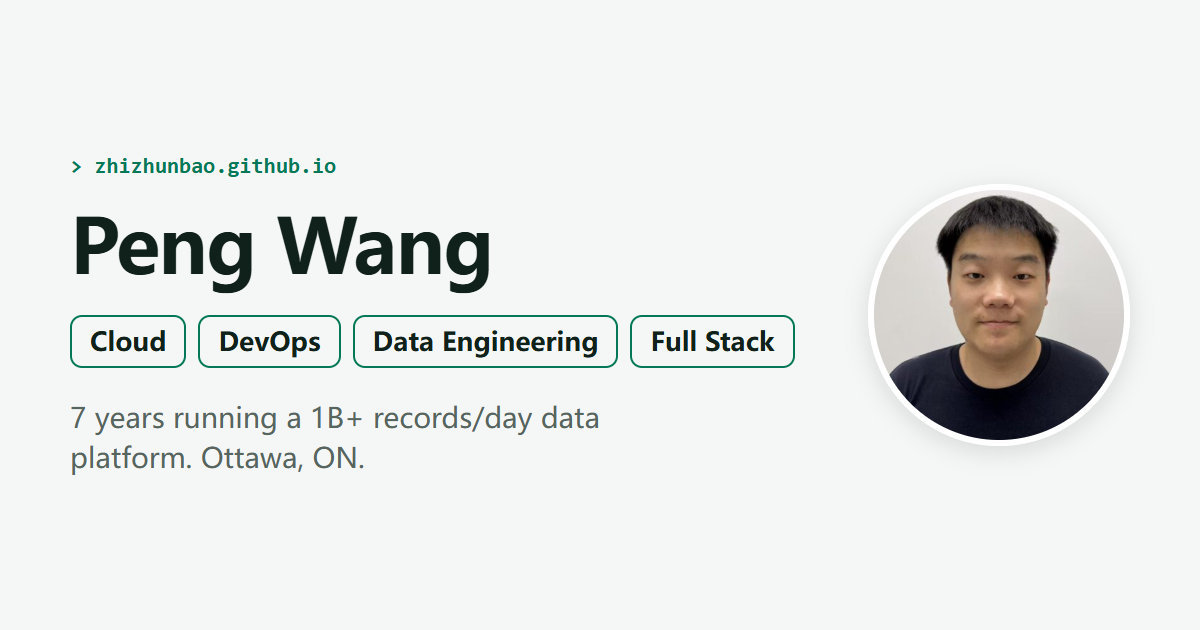
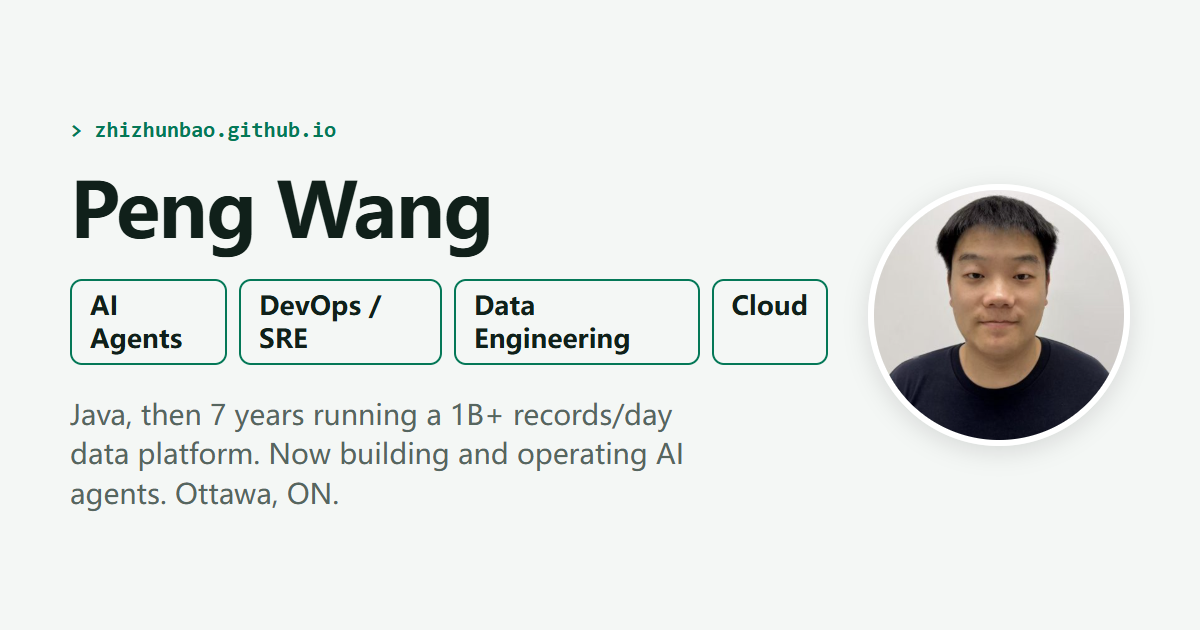
feat: 首页按主线重写 —— 过去 Java 开发 → 中期大数据架构、开发、运维 → 现在 AI Agent 开发运维;新增「How I build with AI agents」六条做法(都有仓库证据);offer2pr 详情页加 AI agent 功能与演变;技能加 AI agents 组;分享图与元数据同步

Changed region(s): [[0.0617, 0.181, 0.6783, 0.6032], [0.0617, 0.6333, 0.5858, 0.8143]]

diff --git a/src/data/profile.ts b/src/data/profile.ts
@@ -12,36 +12,70 @@ export const LINKS = {
 
 /** 首屏下方的数字。 */
 export const STATS = [
+	{ num: '2,600+', label: 'commits on offer2pr since Jun 2026, 1,500+ written with Claude' },
 	{ num: '1B+', label: 'smart-TV device records processed a day' },
-	{ num: '<1s', label: 'query time on ClickHouse + Spark' },
 	{ num: '−35%', label: 'infrastructure cost after the cloud migration' },
 	{ num: '24,000+', label: 'live postings on offer2pr.com' },
 ];
 
+/**
+ * 我怎么用 AI agent 做开发(Frank 10-16:「还有我自己的 AI agent 开发风格」)。
+ * 每条都有仓库里的证据(pnp-job-tracker 的 CLAUDE.md、.claude/skills、.githooks、eslint.config.mjs)。
+ */
+export const AGENT_WAYS = [
+	{
+		title: 'A constitution before code',
+		body: 'Every project starts with a CLAUDE.md the agent must follow: principles, naming, the decision ladder. offer2pr\'s runs to 259 lines and became my starter template.',
+	},
+	{
+		title: 'Guardrails, not trust',
+		body: '47 custom ESLint rules, a pre-commit type check and a pre-push gate (ruff, pyrefly, structure check, file whitelist) catch what an agent gets wrong. Skipping hooks is banned, and the lint baseline can only shrink.',
+	},
+	{
+		title: 'Names come from a catalogue',
+		body: 'Folder and domain names must be registered in each layer\'s README table; a lint rule reads the table and fails on anything unregistered, so agents can\'t invent structure.',
+	},
+	{
+		title: 'Skills for repeated work',
+		body: 'Five project skills on offer2pr, including a production audit loop that screenshots the live site on desktop and mobile, checks it, fixes and re-checks, plus a first-time-user walkthrough. A batch subagent handles bulk mechanical edits.',
+	},
+	{
+		title: 'Ground every number',
+		body: 'In product and in docs, numbers must come from a tool result, a database or an official source. My advisor agent was told it never computes or ranks; tools are the only source of facts.',
+	},
+	{
+		title: 'Simplify first',
+		body: 'The shortest form that carries the point. When a nine-tool advisor agent was more than the job needed, I replaced it with a two-step guide.',
+	},
+];
+
 /** 技能分组。 */
 export const SKILLS = [
+	{ group: 'AI agents', items: ['Claude Code', 'Agent skills & subagents', 'Tool calling', 'Grounding & guardrails', 'LLM-as-judge evaluation', 'RAG (LlamaIndex)', 'Anthropic API', 'Ollama'] },
 	{ group: 'Cloud & infrastructure', items: ['Alibaba Cloud EMR', 'VPC / VPN', 'Security groups', 'Auto-scaling', 'Azure OpenAI', 'Azure AI Search', 'Cloudflare', 'Docker'] },
 	{ group: 'Data', items: ['Hadoop (CDH)', 'Spark', 'ClickHouse', 'PostgreSQL', 'Supabase', 'ChromaDB'] },
 	{ group: 'Operations', items: ['Monitoring & alerting', 'NGINX', 'Tomcat', 'Database monitoring'] },
 	{ group: 'Backend', items: ['Java', 'Spring MVC', 'MyBatis', 'Python', 'FastAPI', 'SQLAlchemy'] },
 	{ group: 'Frontend', items: ['TypeScript', 'Next.js', 'React', 'Payload CMS', 'Tailwind'] },
-	{ group: 'AI / ML', items: ['LlamaIndex', 'Ollama', 'PyTorch'] },
+	{ group: 'Machine learning', items: ['PyTorch', 'scikit-learn', 'Keras'] },
 ];
 
 /** 工作经历(新的在前)。 */
 export const JOBS = [
 	{
 		when: 'Jun 2026 – Present',
-		title: 'Founder & Full Stack Developer',
+		title: 'Founder: AI Agent Development & Operations',
 		where: 'offer2pr.com, Ottawa, ON',
 		points: [
 			'Built and run a daily-updated Canadian job board with 24,000+ live postings.',
+			'Build with coding agents: 2,600+ commits since Jun 2026, 1,500+ co-authored with Claude, behind 47 custom lint rules and pre-push gates.',
+			'Shipped a tool-calling advisor agent (9 tools; every number must come from a tool result; output gate; 24-case gold evaluation), later replaced by a simpler two-step guide on Claude Haiku with daily quotas.',
 			'Python ETL in Docker (about 60 containers, hourly refresh) with self-hosted health checks and daily backups; Next.js + Payload CMS + PostgreSQL on Render, DNS on Cloudflare.',
 		],
 	},
 	{
 		when: 'Apr 2015 – Sep 2022',
-		title: 'Senior Big Data Architect',
+		title: 'Senior Big Data Architect: Architecture, Development & Operations',
 		where: 'Guangzhou Huan Technology (HuanTV), Guangzhou',
 		points: [
 			'Ran a platform processing 1+ billion smart-TV device records a day with sub-second queries (ClickHouse, Spark).',

diff --git a/src/content/projects/offer2pr.md b/src/content/projects/offer2pr.md
@@ -1,11 +1,11 @@
 ---
 title: Offer2PR
-role: Founder & Full Stack Developer
+role: Founder: AI Agent Development & Operations
 org: offer2pr.com, Ottawa, ON
 dates: Jun 2026 – Present
 order: 202606
 summary: A daily-updated Canadian job board with 24,000+ live postings from 30 sources across all 10 provinces, tagged with immigration signals; in English, Chinese and Korean.
-stack: [TypeScript, Next.js, React, Payload CMS, PostgreSQL, Python, Docker, Render, Cloudflare]
+stack: [AI agents, Claude API, TypeScript, Next.js, Payload CMS, PostgreSQL, Python, Docker, Render, Cloudflare]
 url: https://offer2pr.com
 repo: https://github.com/zhizhunbao/pnp-job-tracker
 cover: /projects/offer2pr/jobs.webp
@@ -37,6 +37,13 @@ The job board filters by province, occupation, pathway and experience. The emplo
 - **Operations**: the ETL runs unattended in Docker on a self-managed host, about 60 containers; see below.
 - **Web**: Next.js + Payload CMS + PostgreSQL on Render, DNS on Cloudflare.
 - **CI**: GitHub Actions type-checks and lints every push; a local pre-push hook adds Python lint, type checks and a build.
+
+## AI agents in the product
+
+- **Advisor agent (Aug – Sep 2026).** A tool-calling agent with 9 tools (occupation search, job lookup, draw history, thresholds, points and more). Its rules: it never decides, ranks or computes, and every number in an answer must appear in a tool result. An output gate rewrote drafts that broke the rules, answers cited their sources, and the tool trace streamed to the page. A 24-case gold set plus real user questions served as the evaluation.
+- **Site guide (live since Sep 2026).** When the advisor was more than the job needed, I replaced it with a two-step guide on Claude Haiku: one structured call routes the question to the right page, and an optional second call answers only from database facts, with daily quotas to cap cost.
+- **Occupation resolver.** An agent with search, slot-filling and give-up tools that rejects any occupation code the search didn't return, covered by 21 integration tests.
+- **Cover letters.** One grounded call per job, from the job ad and the chosen résumé, with a switchable model provider and a daily limit.
 
 ## How I operate it
 
